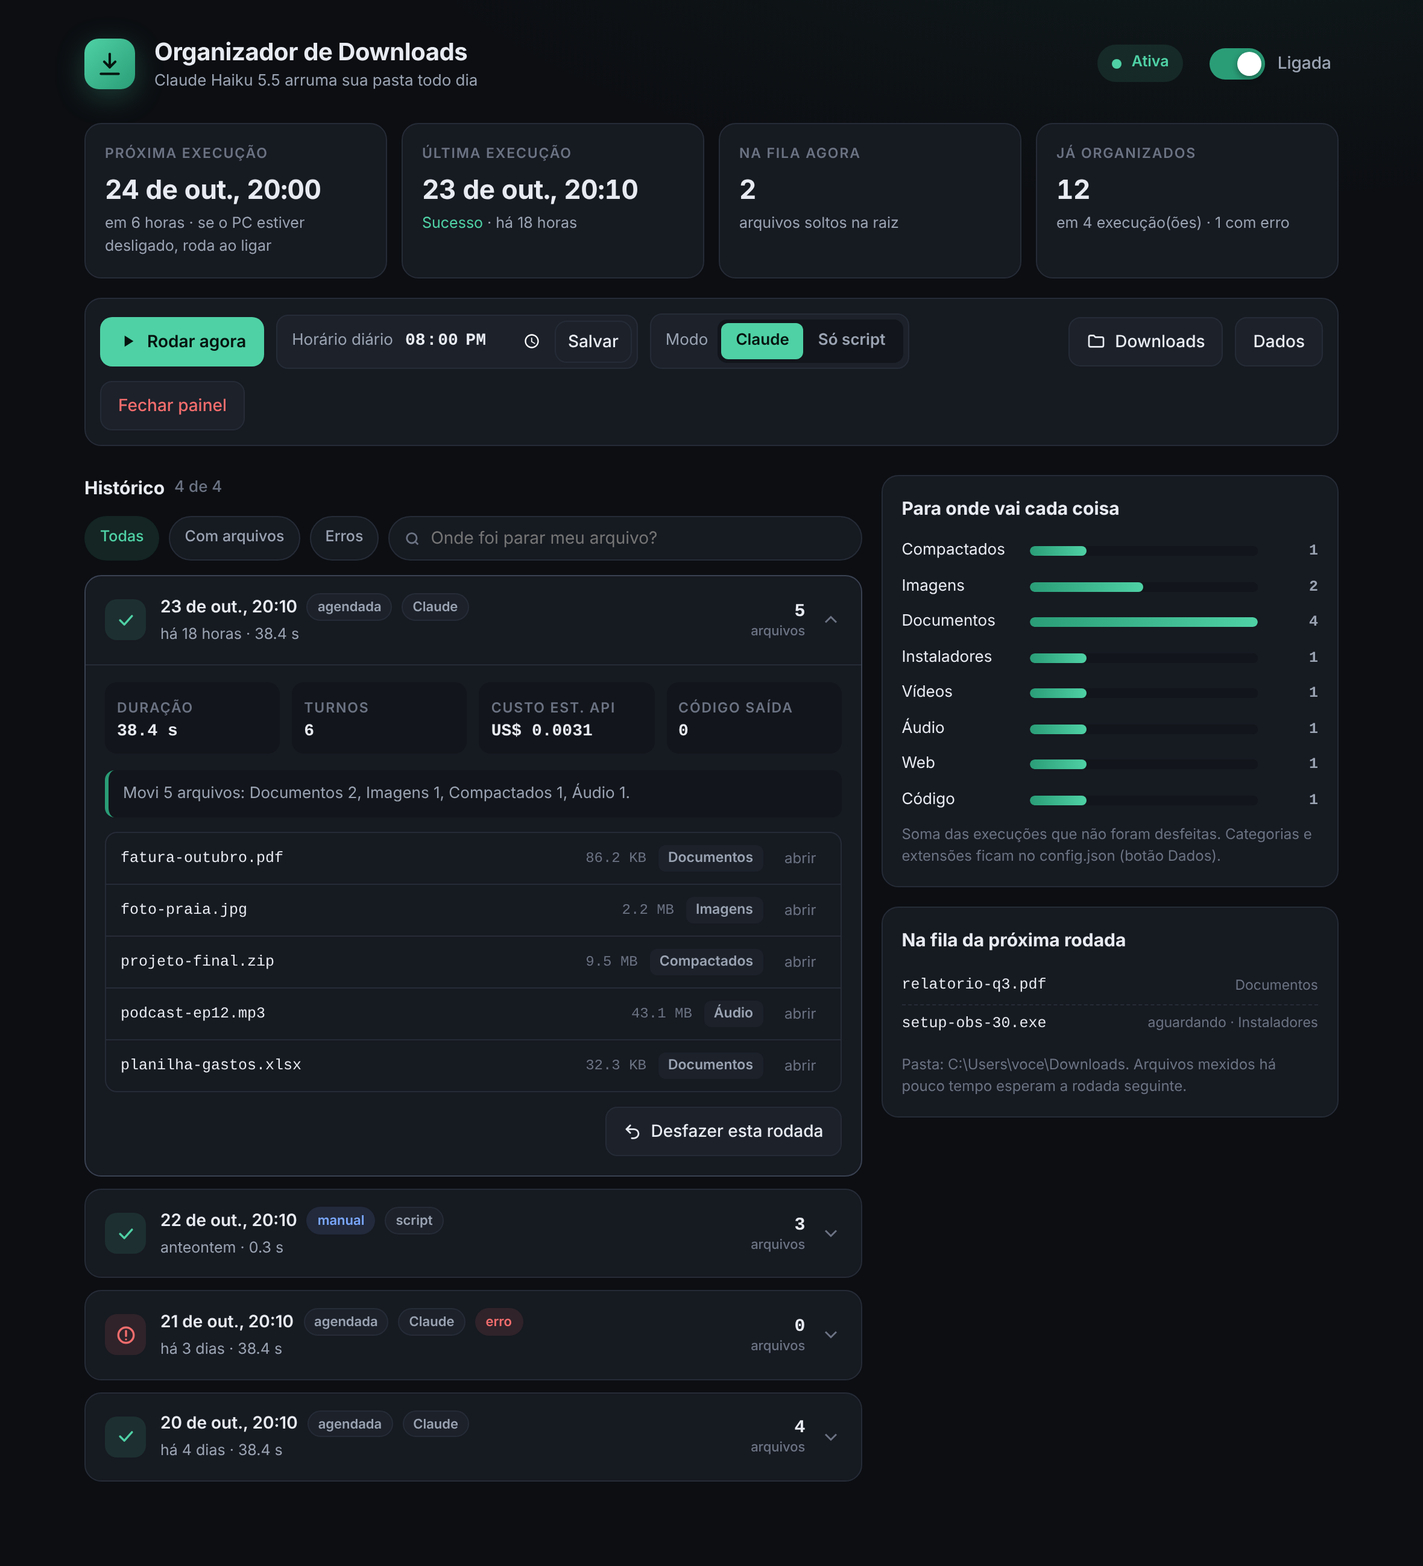
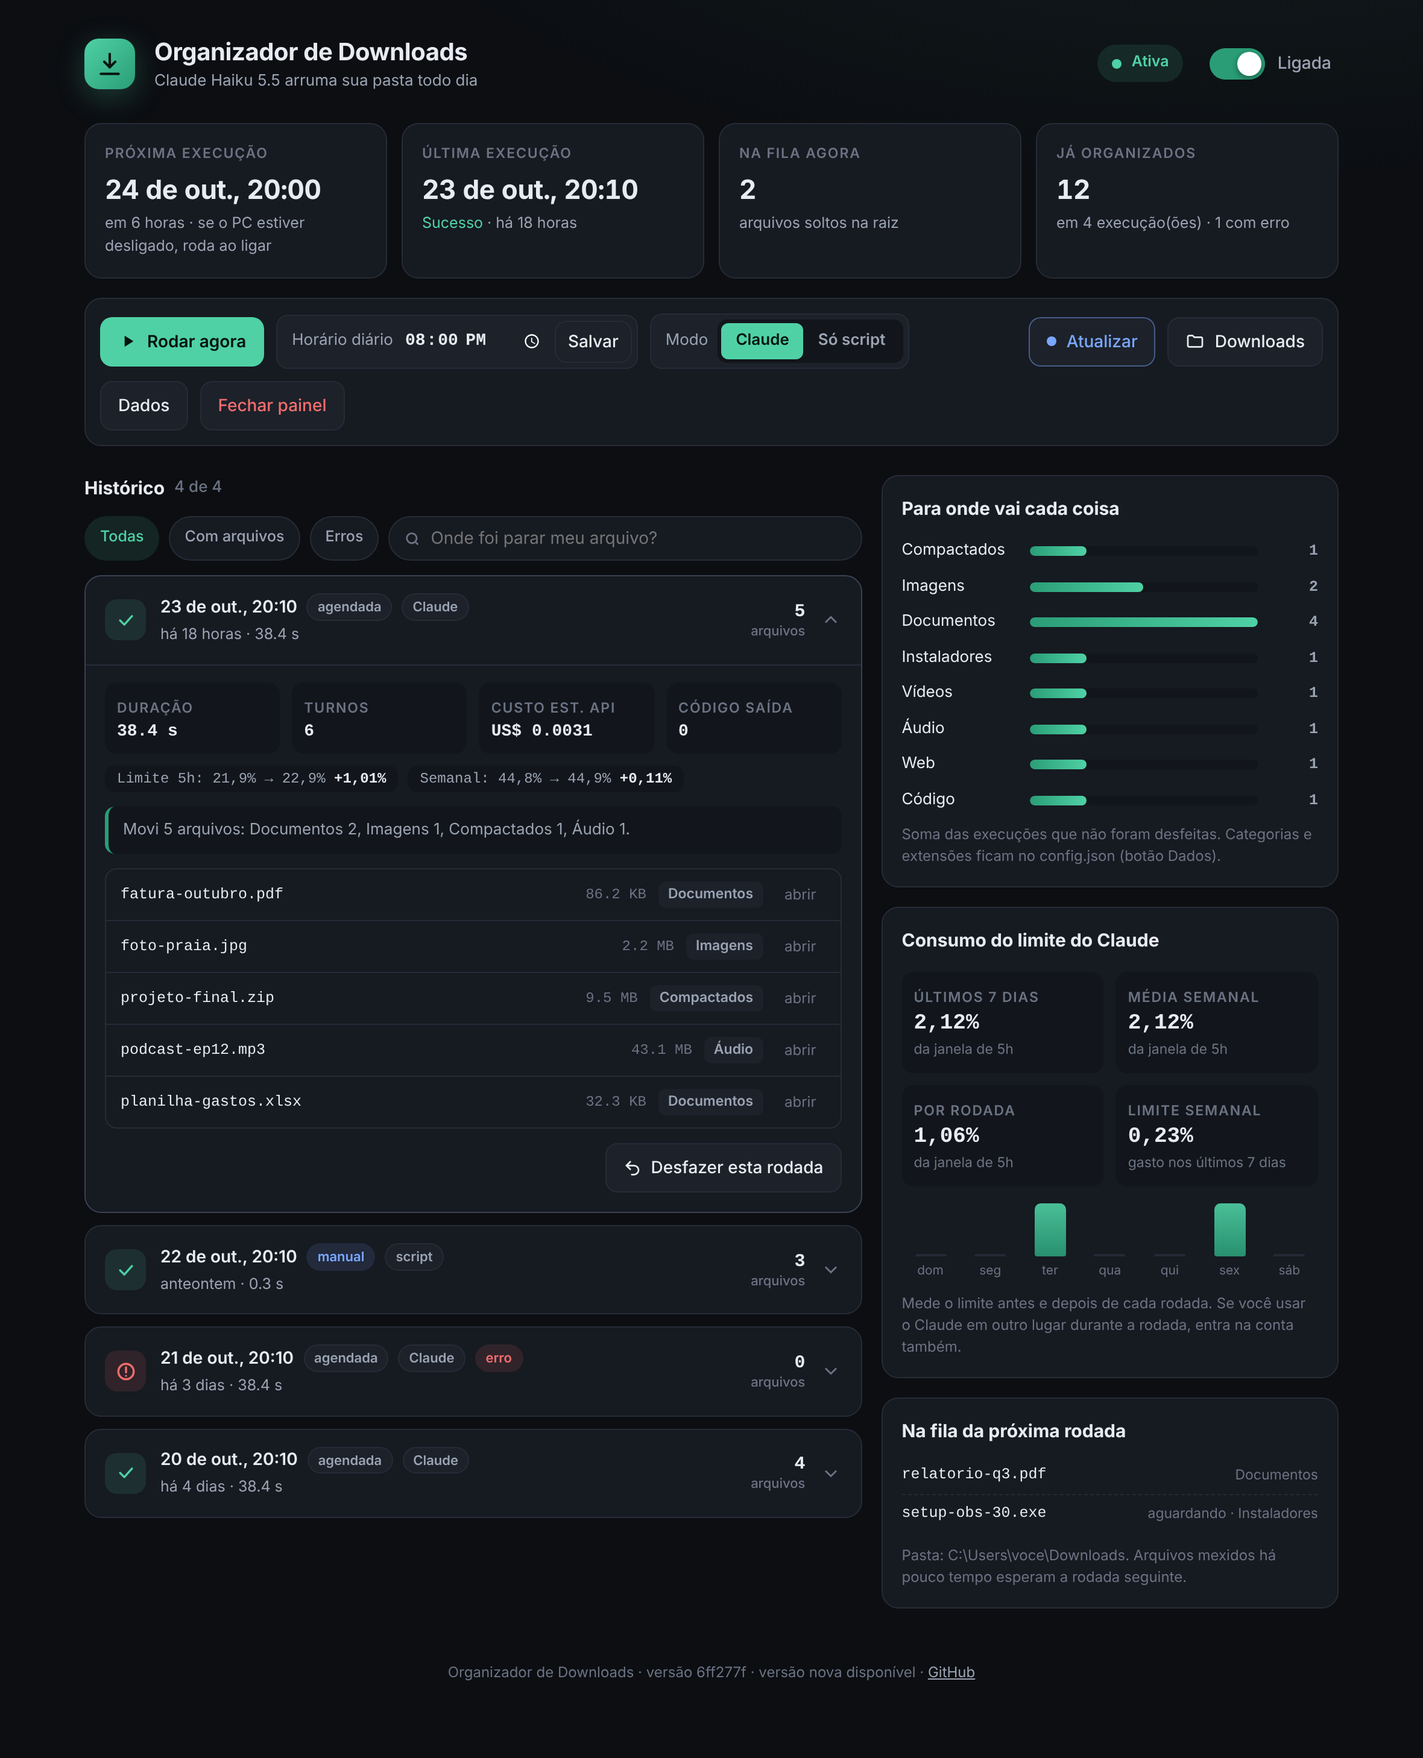
feat: botão Atualizar no painel com as novidades do GitHub

diff --git a/src/painel.html b/src/painel.html
@@ -18,6 +18,7 @@
   --mono:'JetBrains Mono',ui-monospace,Consolas,monospace;
 }
 *{box-sizing:border-box}
+[hidden]{display:none!important}
 html,body{margin:0;background:var(--bg);color:var(--txt);font:14px/1.5 Inter,system-ui,Segoe UI,sans-serif}
 body{min-height:100vh;background:radial-gradient(1200px 500px at 85% -10%,rgba(79,209,165,.08),transparent 60%),var(--bg)}
 .wrap{max-width:1080px;margin:0 auto;padding:28px 20px 60px}
@@ -167,6 +168,34 @@ button:focus-visible,input:focus-visible{outline:2px solid var(--acc);outline-of
 @keyframes toastout{to{opacity:0;transform:translateX(20px)}}
 .skel{height:64px;border-radius:var(--raio);margin-bottom:10px;background:linear-gradient(90deg,var(--card) 0%,var(--card2) 50%,var(--card) 100%);background-size:200% 100%;animation:brilho 1.2s linear infinite}
 @keyframes brilho{to{background-position:-200% 0}}
+.btn.novo{position:relative;border-color:rgba(122,167,255,.45);color:var(--info)}
+.btn.novo .ponto-novo{width:8px;height:8px;border-radius:50%;background:var(--info);box-shadow:0 0 0 0 rgba(122,167,255,.6);animation:chama 1.8s ease-out infinite}
+@keyframes chama{0%{box-shadow:0 0 0 0 rgba(122,167,255,.6)}70%{box-shadow:0 0 0 8px rgba(122,167,255,0)}100%{box-shadow:0 0 0 0 rgba(122,167,255,0)}}
+.btn-sumir{display:none}
+.novidades{list-style:none;margin:0 0 18px;padding:0;max-height:240px;overflow:auto;border:1px solid var(--borda);border-radius:10px}
+.novidades li{padding:8px 12px;border-bottom:1px solid var(--borda);font-size:13px;color:var(--txt2)}
+.novidades li:last-child{border-bottom:0}
+.novidades li::before{content:'';display:inline-block;width:6px;height:6px;border-radius:50%;background:var(--acc);margin-right:10px;vertical-align:middle}
+.rodape{margin-top:28px;text-align:center;color:var(--txt3);font-size:12px}
+.rodape a{color:var(--txt2)}
+.atualizando{position:fixed;inset:0;display:grid;place-items:center;background:rgba(12,14,18,.92);backdrop-filter:blur(6px);z-index:45;opacity:0;pointer-events:none;transition:opacity .3s var(--ease)}
+.atualizando.on{opacity:1;pointer-events:auto}
+.atualizando .caixa{text-align:center;color:var(--txt2)}
+.atualizando .caixa h2{color:var(--txt);margin:14px 0 4px;font-size:18px}
+.atualizando .giro{width:28px;height:28px;border-width:3px;margin:0 auto;color:var(--acc)}
+.lim-grade{display:grid;grid-template-columns:1fr 1fr;gap:10px}
+.lim-grade>div{background:var(--bg2);border-radius:10px;padding:10px}
+.lim-grade b{display:block;font:700 18px var(--mono);margin-top:2px}
+.lim-grade small{color:var(--txt3);font-size:11.5px}
+.dias{display:flex;align-items:flex-end;gap:6px;height:64px;margin-top:14px;padding:0 2px}
+.dias .d{flex:1;display:flex;flex-direction:column;align-items:center;gap:4px;height:100%;justify-content:flex-end}
+.dias .b{width:100%;max-width:26px;border-radius:5px 5px 2px 2px;background:linear-gradient(180deg,var(--acc),var(--acc2));height:0;transition:height .8s var(--ease);min-height:2px;opacity:.9}
+.dias .b.zero{background:var(--borda)}
+.dias .l{font-size:10.5px;color:var(--txt3)}
+.limite-run{display:flex;flex-wrap:wrap;gap:8px;margin:-4px 0 12px}
+.limite-run span{font:12px var(--mono);padding:4px 10px;border-radius:8px;background:var(--bg2);color:var(--txt2)}
+.limite-run span b{color:var(--txt)}
+.limite-run span.reset{font-family:Inter,sans-serif;color:var(--warn);background:var(--warnbg)}
 .desligado{position:fixed;inset:0;display:none;place-items:center;background:var(--bg);z-index:40;text-align:center;color:var(--txt2)}
 .desligado.on{display:grid}
 @media (prefers-reduced-motion:reduce){*,*::before,*::after{animation-duration:.01ms!important;animation-iteration-count:1!important;transition-duration:.01ms!important}}
@@ -198,6 +227,7 @@ button:focus-visible,input:focus-visible{outline:2px solid var(--acc);outline-of
       <div class="seg" id="seg"><span class="marcador" id="marcador"></span><button data-modo="claude" aria-pressed="false">Claude</button><button data-modo="script" aria-pressed="false">Só script</button></div>
     </div>
     <div class="espaco"></div>
+    <button class="btn novo btn-sumir" id="bAtualizar" title="Tem versão nova no GitHub"><span class="ponto-novo"></span>Atualizar</button>
     <button class="btn" data-abrir="downloads"><svg viewBox="0 0 24 24" fill="none" stroke="currentColor" stroke-width="2"><path d="M3 7a2 2 0 0 1 2-2h4l2 2h8a2 2 0 0 1 2 2v8a2 2 0 0 1-2 2H5a2 2 0 0 1-2-2z"/></svg>Downloads</button>
     <button class="btn" data-abrir="dados" title="Pasta com scripts, histórico, config.json e configurar-token.cmd">Dados</button>
     <button class="btn perigo" id="bSair" title="Desliga o servidor do painel. A tarefa continua agendada.">Fechar painel</button>
@@ -221,6 +251,17 @@ button:focus-visible,input:focus-visible{outline:2px solid var(--acc);outline-of
         <div class="barras" id="barras"></div>
         <div class="dica">Soma das execuções que não foram desfeitas. Categorias e extensões ficam no config.json (botão Dados).</div>
       </div>
+      <div class="card" id="cardLimite">
+        <h2>Consumo do limite do Claude</h2>
+        <div class="lim-grade">
+          <div><span class="rotulo">Últimos 7 dias</span><b id="lim7">--</b><small>da janela de 5h</small></div>
+          <div><span class="rotulo">Média semanal</span><b id="limMedia">--</b><small>da janela de 5h</small></div>
+          <div><span class="rotulo">Por rodada</span><b id="limRodada">--</b><small>da janela de 5h</small></div>
+          <div><span class="rotulo">Limite semanal</span><b id="limSem">--</b><small>gasto nos últimos 7 dias</small></div>
+        </div>
+        <div class="dias" id="limDias"></div>
+        <div class="dica" id="limDica">Mede o limite antes e depois de cada rodada. Se você usar o Claude em outro lugar durante a rodada, entra na conta também.</div>
+      </div>
       <div class="card">
         <h2 style="margin-bottom:10px">Na fila da próxima rodada</h2>
         <ul class="fila" id="fila"></ul>
@@ -228,10 +269,12 @@ button:focus-visible,input:focus-visible{outline:2px solid var(--acc);outline-of
       </div>
     </aside>
   </div>
+  <div class="rodape" id="rodape">&nbsp;</div>
 </div>
 
-<div class="fundo" id="fundo"><div class="modal" role="dialog" aria-modal="true"><h3 id="mTit"></h3><p id="mTxt"></p><div class="acoesdet"><button class="btn" id="mNao">Cancelar</button><button class="btn prim" id="mSim">Confirmar</button></div></div></div>
+<div class="fundo" id="fundo"><div class="modal" role="dialog" aria-modal="true"><h3 id="mTit"></h3><p id="mTxt"></p><ul class="novidades" id="mLista" hidden></ul><div class="acoesdet"><button class="btn" id="mNao">Cancelar</button><button class="btn prim" id="mSim">Confirmar</button></div></div></div>
 <div class="toasts" id="toasts"></div>
+<div class="atualizando" id="atualizando"><div class="caixa"><span class="giro" style="display:block"></span><h2>Atualizando...</h2><p>Baixando a versão nova e reiniciando o painel. Volta em alguns segundos.</p></div></div>
 <div class="desligado" id="desligado"><div><h2>Painel fechado</h2><p>A tarefa segue agendada. Abra o atalho "Organizador de Downloads" quando quiser voltar.</p></div></div>
 
 <script>
@@ -245,6 +288,7 @@ async function api(caminho, corpo){
   if (!r.ok) throw new Error(j.erro || ('Erro HTTP ' + r.status));
   return j;
 }
+const limpaCommit = m => { const t = String(m || '').replace(/^\w+(\([^)]*\))?!?:\s*/, ''); return t.charAt(0).toUpperCase() + t.slice(1); };
 const esc = s => String(s ?? '').replace(/[&<>"']/g, c => ({'&':'&amp;','<':'&lt;','>':'&gt;','"':'&quot;',"'":'&#39;'}[c]));
 const fmtData = iso => iso ? new Date(iso).toLocaleString('pt-BR', {day:'2-digit', month:'short', hour:'2-digit', minute:'2-digit'}) : '--';
 function relativo(iso){
@@ -263,9 +307,12 @@ function toast(msg, err){
   $('#toasts').appendChild(t);
   setTimeout(() => { t.classList.add('sai'); setTimeout(() => t.remove(), 300); }, 3800);
 }
-function confirmar(tit, txt){
+function confirmar(tit, txt, lista, soOk){
   return new Promise(res => {
-    $('#mTit').textContent = tit; $('#mTxt').textContent = txt; $('#fundo').classList.add('on'); $('#mSim').focus();
+    $('#mTit').textContent = tit; $('#mTxt').textContent = txt;
+    const ul = $('#mLista'); ul.hidden = !(lista && lista.length); ul.innerHTML = (lista || []).map(i => `<li>${esc(limpaCommit(i))}</li>`).join('');
+    $('#mNao').hidden = !!soOk; $('#mSim').textContent = soOk ? 'Beleza' : 'Confirmar';
+    $('#fundo').classList.add('on'); $('#mSim').focus();
     const fim = v => { $('#fundo').classList.remove('on'); $('#mSim').onclick = $('#mNao').onclick = null; res(v); };
     $('#mSim').onclick = () => fim(true); $('#mNao').onclick = () => fim(false);
     $('#fundo').onclick = e => { if (e.target.id === 'fundo') fim(false); };
@@ -316,10 +363,45 @@ function renderStatus(){
   agendar(rodando ? 2000 : 6000);
 }
 
+function fmtPct(v){ if (v == null || isNaN(v)) return '--'; if (v > 0 && v < 0.1) return '<0,1%'; return v.toLocaleString('pt-BR', {maximumFractionDigits: v < 10 ? 2 : 1}) + '%'; }
+
+function renderLimites(){
+  const comDados = historico.filter(h => h.limites && h.limites.cincoHoras);
+  const card = $('#cardLimite');
+  if (!comDados.length){
+    $('#lim7').textContent = $('#limMedia').textContent = $('#limRodada').textContent = $('#limSem').textContent = '--';
+    $('#limDias').innerHTML = '';
+    $('#limDica').textContent = status && status.modo !== 'claude' ? 'Aparece quando você usa o modo Claude.' : 'Aparece depois da primeira rodada com o Claude.';
+    return;
+  }
+  const agora = Date.now(), dia = 864e5;
+  const c5 = h => h.limites.cincoHoras.consumo || 0;
+  const ult7 = comDados.filter(h => agora - new Date(h.inicio) < 7 * dia);
+  $('#lim7').textContent = fmtPct(ult7.reduce((a, h) => a + c5(h), 0));
+  const total = comDados.reduce((a, h) => a + c5(h), 0);
+  const primeiro = Math.min(...comDados.map(h => +new Date(h.inicio)));
+  const semanas = Math.max(1, (agora - primeiro) / (7 * dia));
+  $('#limMedia').textContent = fmtPct(total / semanas);
+  $('#limRodada').textContent = fmtPct(total / comDados.length);
+  $('#limSem').textContent = fmtPct(ult7.reduce((a, h) => a + ((h.limites.semanal && h.limites.semanal.consumo) || 0), 0));
+  const dias = [];
+  for (let i = 6; i >= 0; i--){
+    const d = new Date(); d.setHours(0,0,0,0); d.setDate(d.getDate() - i);
+    const fim = +d + dia;
+    const v = comDados.filter(h => { const t = +new Date(h.inicio); return t >= +d && t < fim; }).reduce((a, h) => a + c5(h), 0);
+    dias.push({ l: d.toLocaleDateString('pt-BR', {weekday: 'short'}).replace('.', ''), v });
+  }
+  const max = Math.max(...dias.map(d => d.v), 0.0001);
+  $('#limDias').innerHTML = dias.map(d => `<div class="d" title="${fmtPct(d.v)} da janela de 5h"><div class="b${d.v ? '' : ' zero'}" data-h="${(d.v / max * 100).toFixed(1)}"></div><span class="l">${esc(d.l)}</span></div>`).join('');
+  requestAnimationFrame(() => requestAnimationFrame(() => document.querySelectorAll('#limDias .b').forEach(b => b.style.height = Math.max(3, +b.dataset.h) + '%')));
+  $('#limDica').textContent = 'Mede o limite antes e depois de cada rodada. Se você usar o Claude em outro lugar durante a rodada, entra na conta também.';
+}
+
 function renderStats(){
   const cont = {}; let total = 0;
   historico.filter(h => !h.desfeito).forEach(h => (h.movidos || []).forEach(m => { cont[m.pasta] = (cont[m.pasta] || 0) + 1; total++; }));
   $('#cTotal').textContent = total;
+  renderLimites();
   const execs = historico.length, erros = historico.filter(h => h.status !== 'ok').length;
   $('#cTotalSub').textContent = execs ? `em ${execs} execução(ões)${erros ? ' · ' + erros + ' com erro' : ''}` : 'nenhuma execução ainda';
   const pastas = (status && status.categorias) || [];
@@ -369,6 +451,7 @@ function renderHistorico(){
           <div><span class="rotulo">Custo est. API</span><b>${h.custoUsd != null ? 'US$ ' + Number(h.custoUsd).toFixed(4) : '--'}</b></div>
           <div><span class="rotulo">Código saída</span><b>${h.codigoSaida ?? '--'}</b></div>
         </div>
+        ${h.limites ? `<div class="limite-run">${h.limites.cincoHoras ? `<span>Limite 5h: ${fmtPct(h.limites.cincoHoras.antes)} → ${fmtPct(h.limites.cincoHoras.depois)} <b>+${fmtPct(h.limites.cincoHoras.consumo)}</b></span>` : ''}${h.limites.semanal ? `<span>Semanal: ${fmtPct(h.limites.semanal.antes)} → ${fmtPct(h.limites.semanal.depois)} <b>+${fmtPct(h.limites.semanal.consumo)}</b></span>` : ''}${h.limites.cincoHoras && h.limites.cincoHoras.reiniciou ? '<span class="reset">A janela de 5h reiniciou durante a rodada</span>' : ''}</div>` : ''}
         ${h.resumo ? `<div class="resumo${h.status !== 'ok' ? ' err' : ''}">${esc(h.resumo)}</div>` : ''}
         ${loginRuim ? '<div class="resumo dica-login">Problema de login do Claude. Clique em <b>Dados</b> e abra o <b>configurar-token.cmd</b> para salvar um token de 1 ano.</div>' : ''}
         ${mostrar.length ? `<ul class="arquivos">${mostrar.map(m => `<li><span class="nome" title="${esc(m.nome)}">${marca(m.nome)}</span><span class="tam">${tam(m.tamanho)}</span><span class="p">${esc(m.pasta)}</span>${m.destino && !h.desfeito ? `<button class="mini" data-mostrar="${esc(m.destino)}" title="Mostrar no Explorer">abrir</button>` : ''}</li>`).join('')}</ul>` : '<div class="vazio" style="padding:12px">Nenhum arquivo movido nessa rodada.</div>'}
@@ -376,6 +459,27 @@ function renderHistorico(){
       </div></div></div>
     </article>`;
   }).join('');
+}
+
+let versao = null;
+async function carregarVersao(forcar){
+  try { versao = await api('/api/versao' + (forcar ? '?forcar=1' : '')); } catch { return; }
+  $('#bAtualizar').classList.toggle('btn-sumir', !versao.novidade);
+  $('#rodape').innerHTML = `Organizador de Downloads · versão ${esc(versao.local || 'desconhecida')}${versao.erro ? ' · ' + esc(versao.erro) : versao.novidade ? ' · versão nova disponível' : ' · atualizado'} · <a href="https://github.com/ArturoAndreatta/organizador-downloads" target="_blank" rel="noopener">GitHub</a>`;
+}
+async function esperarVoltar(){
+  const inicio = Date.now(); let caiu = false;
+  while (Date.now() - inicio < 120000){
+    await new Promise(r => setTimeout(r, 1500));
+    try { const r = await fetch('/api/ping', {cache: 'no-store'}); if (r.ok && (caiu || Date.now() - inicio > 8000)) { location.reload(); return; } } catch { caiu = true; }
+  }
+  $('#atualizando').classList.remove('on'); toast('O painel demorou para voltar. Abra o atalho de novo.', true);
+}
+async function avisoAtualizacao(){
+  let a; try { a = await api('/api/aviso_atualizacao'); } catch { return; }
+  if (!a || !a.para) return;
+  const lista = a.novidades || [];
+  await confirmar('Atualizado! 🎉', lista.length ? 'O que tem de novo:' : `Agora na versão ${a.para}.`, lista, true);
 }
 
 async function carregarStatus(){ try { status = await api('/api/status'); renderStatus(); } catch(e){ falhaConexao(e); } }
@@ -400,6 +504,15 @@ $('#seg').addEventListener('click', async e => {
   if (!b || b.disabled || b.dataset.modo === status.modo) return;
   try { status = await api('/api/modo', {modo: b.dataset.modo}); renderStatus(); toast(status.modo === 'claude' ? 'Modo Claude ativado' : 'Modo só script ativado'); } catch(er){ toast(er.message, true); }
 });
+$('#bAtualizar').onclick = async () => {
+  await carregarVersao(true);
+  if (!versao || !versao.novidade){ toast(versao && versao.erro ? versao.erro : 'Já está na última versão.', !!(versao && versao.erro)); return; }
+  const lista = versao.novidades || [];
+  if (!await confirmar('Atualizar agora?', lista.length ? 'O que vem na versão nova:' : 'Tem uma versão nova no GitHub.', lista)) return;
+  $('#atualizando').classList.add('on'); clearTimeout(timer);
+  try { await api('/api/atualizar', {}); esperarVoltar(); }
+  catch(e){ $('#atualizando').classList.remove('on'); toast('Não consegui atualizar: ' + e.message, true); agendar(6000); }
+};
 document.querySelectorAll('[data-abrir]').forEach(b => b.onclick = () => api('/api/abrir', {alvo: b.dataset.abrir}).catch(e => toast(e.message, true)));
 $('#bSair').onclick = async () => {
   if (!await confirmar('Fechar o painel?', 'Só o painel desliga. A tarefa continua agendada normalmente.')) return;
@@ -427,7 +540,10 @@ $('#lista').addEventListener('click', async e => {
 document.addEventListener('keydown', e => { if (e.key === 'Escape' && $('#fundo').classList.contains('on')) $('#mNao').click(); });
 window.addEventListener('resize', () => status && renderModo());
 
-carregarStatus().then(carregarHistorico);
+carregarStatus().then(carregarHistorico).then(avisoAtualizacao);
+carregarVersao(false);
+setInterval(() => carregarVersao(false), 30 * 60 * 1000);
+document.addEventListener('visibilitychange', () => { if (!document.hidden) carregarVersao(false); });
 </script>
 </body>
 </html>

diff --git a/README.md b/README.md
@@ -27,6 +27,8 @@ Separa por tipo de arquivo, mostra tudo num painel bonito e deixa desfazer qualq
 | 🔍 **"Onde foi parar meu arquivo?"** | Digita parte do nome e ele mostra para qual pasta foi, com botão para abrir no Explorer. |
 | ↩ **Desfazer** | Não gostou de uma rodada? Um clique e os arquivos voltam para onde estavam. |
 | 🛡 **Cuidadoso** | Nunca apaga nada, nunca sobrescreve, não mexe em subpastas, ignora arquivos baixando e arquivos com cara de senha (`.env`, `.pem`, `.key`...). |
+| 📈 **Mede o consumo do Claude** | Guarda o limite de 5h e o semanal antes e depois de cada rodada e mostra a média por semana. Se a janela de 5h reiniciar no meio da rodada, ele conta certo. |
+| 🔄 **Atualiza com um clique** | Quando sai versão nova aqui no GitHub, aparece o botão **Atualizar** no painel, com a lista do que mudou. |
 | 🤖 **Claude opcional** | Funciona só com regras fixas, sem IA. Se você tem o Claude Code, pode deixar o Claude Haiku fazer o serviço. |
 
 ---
@@ -65,6 +67,8 @@ Quando quiser ver o que aconteceu, abra o atalho **Organizador de Downloads** (n
 | **Horário diário** | Muda quando ele roda |
 | **Modo** | Alterna entre *Claude* e *Só script* |
 | **Histórico** | Clique numa rodada para ver os arquivos, o resumo e desfazer |
+| **Atualizar** | Aparece quando tem versão nova. Mostra o que mudou e atualiza sem perder nada |
+| **Consumo do limite** | Quanto do seu limite do Claude as rodadas gastaram: últimos 7 dias, média semanal e por rodada |
 | **Dados** | Abre a pasta com `config.json`, histórico e o `configurar-token.cmd` |
 
 ---
@@ -157,6 +161,12 @@ O token expirou ou não foi configurado. Painel → **Dados** → `configurar-to
 </details>
 
 <details>
+<summary><b>Como ele mede o consumo do limite do Claude?</b></summary>
+
+A cada resposta, o Claude Code informa quanto da janela de 5 horas e do limite semanal já foi usado. O programa guarda a primeira e a última leitura de cada rodada e soma a diferença. Se a janela de 5h reiniciar no meio, ele soma o que foi gasto antes e depois do reinício. Vale saber: se você estiver usando o Claude em outro lugar durante a rodada, esse uso entra na conta também.
+</details>
+
+<details>
 <summary><b>Posso usar no notebook do trabalho?</b></summary>
 
 Pode, ele não precisa de administrador. Mas vale conferir as regras de TI da empresa sobre scripts e, no modo Claude, sobre qual conta do Claude usar.
@@ -165,7 +175,9 @@ Pode, ele não precisa de administrador. Mas vale conferir as regras de TI da em
 <details>
 <summary><b>Como atualizo?</b></summary>
 
-Baixe de novo e rode o `instalar.cmd`. Configuração, histórico, horário e token são mantidos.
+Pelo próprio painel: quando sai versão nova, aparece o botão **Atualizar** com a lista do que mudou. Um clique e pronto. Configuração, histórico, horário e token são mantidos.
+
+Se preferir, também dá para baixar de novo e rodar o `instalar.cmd`.
 </details>
 
 ---
